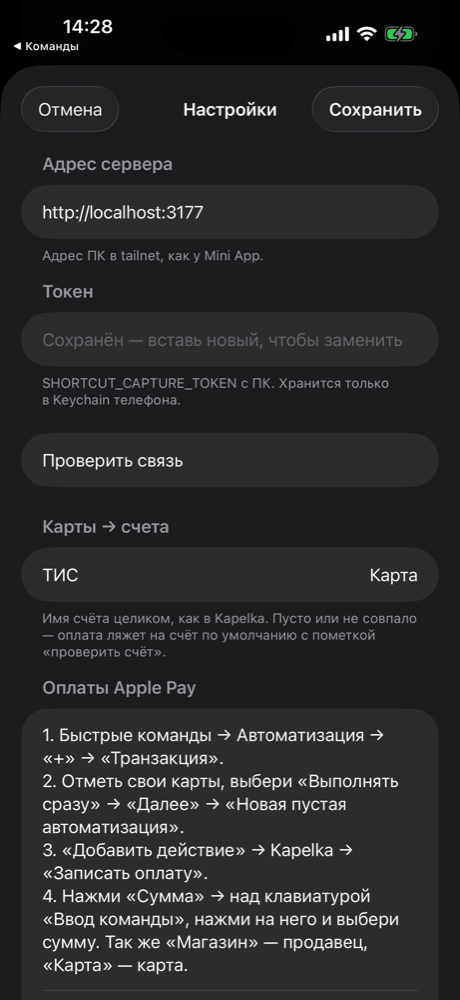
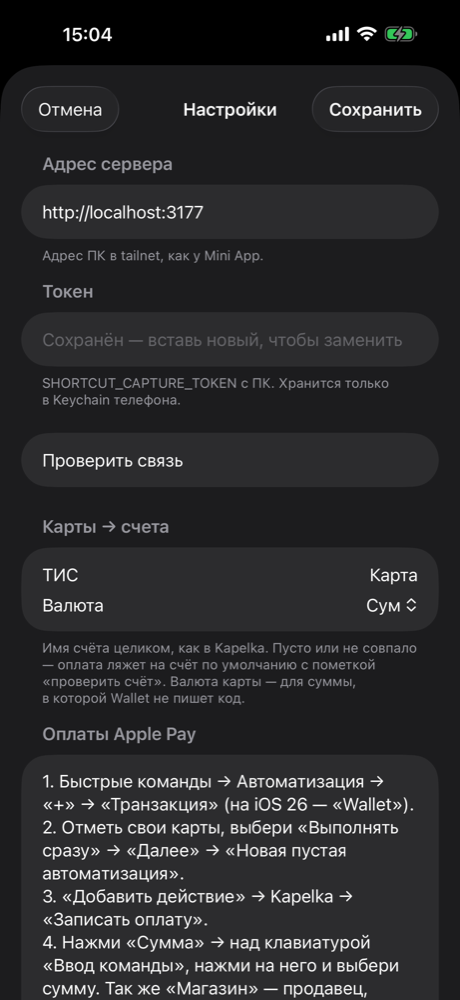
feat(ios): FT-179 check — a card's currency in the settings; no dangling separator
One automation serves both of Shukur's cards, so its «Валюта» cannot tell a dollar card from a сум one:
an amount without a code would have gone out as сум. Each card now has its currency in cards → accounts;
the order is the code in Wallet's amount, the card's currency, the automation's, else «Не отправлено».
A mapping from before has no currency and still reads. A payment row without an amount (run by Siri)
shows the merchant alone. Settings screenshots retaken with the iOS 26 «Wallet» name and the picker.

Changed region(s): [[0.0913, 0.589, 0.913, 1.0], [0.0304, 0.0, 0.2435, 0.062]]

diff --git a/ios/KapelkaTests/CardAccountTests.swift b/ios/KapelkaTests/CardAccountTests.swift
@@ -42,7 +42,7 @@ final class CardAccountTests {
     func mappedAccount() throws {
         let store = try makeStore()
         store.noticed("TBC Uzbekistan")
-        try store.save(["TBC Uzbekistan": "  Карта TBC "], removing: [])
+        try store.save([CardAccount(card: "TBC Uzbekistan", account: "  Карта TBC ")], removing: [])
 
         #expect(store.account(for: "TBC Uzbekistan") == "Карта TBC")
         #expect(store.account(for: "Visa Kapitalbank") == nil)
@@ -52,8 +52,8 @@ final class CardAccountTests {
     func clearedAccount() throws {
         let store = try makeStore()
         store.noticed("TBC Uzbekistan")
-        try store.save(["TBC Uzbekistan": "Карта"], removing: [])
-        try store.save(["TBC Uzbekistan": " "], removing: [])
+        try store.save([CardAccount(card: "TBC Uzbekistan", account: "Карта")], removing: [])
+        try store.save([CardAccount(card: "TBC Uzbekistan", account: " ")], removing: [])
 
         #expect(store.account(for: "TBC Uzbekistan") == nil)
         #expect(store.cards.map(\.card) == ["TBC Uzbekistan"])
@@ -65,10 +65,10 @@ final class CardAccountTests {
         store.noticed("TBC Uzbekistan")
 
         #expect(throws: CardAccountError.tooLong("TBC Uzbekistan")) {
-            try store.save(["TBC Uzbekistan": String(repeating: "к", count: 101)], removing: [])
+            try store.save([CardAccount(card: "TBC Uzbekistan", account: String(repeating: "к", count: 101))], removing: [])
         }
         #expect(store.account(for: "TBC Uzbekistan") == nil)
-        try store.save(["TBC Uzbekistan": String(repeating: "к", count: 100)], removing: [])
+        try store.save([CardAccount(card: "TBC Uzbekistan", account: String(repeating: "к", count: 100))], removing: [])
     }
 
     @Test("карта, пришедшая, пока открыты настройки, не теряется при сохранении")
@@ -78,7 +78,7 @@ final class CardAccountTests {
         let shown = store.cards
         store.noticed("Visa Kapitalbank")
 
-        try store.save(Dictionary(uniqueKeysWithValues: shown.map { ($0.card, "Карта") }), removing: [])
+        try store.save(shown.map { CardAccount(card: $0.card, account: "Карта") }, removing: [])
 
         #expect(store.cards.map(\.card) == ["TBC Uzbekistan", "Visa Kapitalbank"])
         #expect(store.account(for: "TBC Uzbekistan") == "Карта")
@@ -88,8 +88,8 @@ final class CardAccountTests {
     func removeCard() throws {
         let store = try makeStore()
         store.noticed("TBC Uzbekistan")
-        try store.save(["TBC Uzbekistan": "Карта"], removing: [])
-        try store.save([:], removing: ["TBC Uzbekistan"])
+        try store.save([CardAccount(card: "TBC Uzbekistan", account: "Карта")], removing: [])
+        try store.save([], removing: ["TBC Uzbekistan"])
         #expect(store.cards.isEmpty)
 
         store.noticed("TBC Uzbekistan")
@@ -100,9 +100,39 @@ final class CardAccountTests {
     func survivesNewInstance() throws {
         let store = try makeStore()
         store.noticed("TBC Uzbekistan")
-        try store.save(["TBC Uzbekistan": "Карта"], removing: [])
+        try store.save([CardAccount(card: "TBC Uzbekistan", account: "Карта")], removing: [])
 
         #expect(try makeStore().account(for: "TBC Uzbekistan") == "Карта")
+    }
+
+    @Test("валюта карты сохраняется вместе со счётом; не выбрана — её нет")
+    func cardCurrency() throws {
+        let store = try makeStore()
+        store.noticed("TBC Uzbekistan")
+        store.noticed("Visa Kapitalbank")
+        try store.save([
+            CardAccount(card: "TBC Uzbekistan", account: "Карта", currency: .uzs),
+            CardAccount(card: "Visa Kapitalbank", account: "", currency: .usd),
+        ], removing: [])
+
+        #expect(store.currency(for: "TBC Uzbekistan") == .uzs)
+        #expect(store.currency(for: "Visa Kapitalbank") == .usd)
+        #expect(try makeStore().currency(for: " Visa  Kapitalbank ") == .usd)
+
+        try store.save([CardAccount(card: "Visa Kapitalbank", account: "", currency: nil)], removing: [])
+        #expect(store.currency(for: "Visa Kapitalbank") == nil)
+        #expect(store.currency(for: "Другая карта") == nil)
+    }
+
+    @Test("сопоставление прошлой сборки, без валюты, читается: счёт на месте, валюты нет")
+    func olderMappingWithoutCurrency() throws {
+        let defaults = try #require(UserDefaults(suiteName: suite))
+        defaults.set(Data(#"[{"card":"TBC Uzbekistan","account":"Карта"}]"#.utf8), forKey: "cardAccounts")
+        let store = try makeStore()
+
+        #expect(store.cards == [CardAccount(card: "TBC Uzbekistan", account: "Карта")])
+        #expect(store.account(for: "TBC Uzbekistan") == "Карта")
+        #expect(store.currency(for: "TBC Uzbekistan") == nil)
     }
 
     @Test("нечитаемое сопоставление откладывается рядом, а не затирается следующей картой")
@@ -123,7 +153,7 @@ final class CardAccountTests {
     func cardNameTidied() throws {
         let store = try makeStore()
         store.noticed(" TBC  Uzbekistan ")
-        try store.save(["TBC Uzbekistan": "Карта"], removing: [])
+        try store.save([CardAccount(card: "TBC Uzbekistan", account: "Карта")], removing: [])
 
         #expect(store.cards.map(\.card) == ["TBC Uzbekistan"])
         #expect(store.account(for: "TBC Uzbekistan") == "Карта")

diff --git a/ios/Kapelka/Settings/CardAccountStore.swift b/ios/Kapelka/Settings/CardAccountStore.swift
@@ -1,11 +1,20 @@
 import Foundation
 
-/// One Wallet card and the Kapelka account its payments go to; an empty account — none.
+/// One Wallet card, the Kapelka account its payments go to (empty — none) and its currency, for a Wallet amount that
+/// names none: one automation serves several cards, so its own «Валюта» cannot tell a dollar card from a сум one.
 struct CardAccount: Codable, Equatable, Identifiable, Sendable {
     let card: String
     var account: String
+    /// A mapping saved before FT-179's review has none.
+    var currency: PaymentCurrency?
 
     var id: String { card }
+
+    init(card: String, account: String, currency: PaymentCurrency? = nil) {
+        self.card = card
+        self.account = account
+        self.currency = currency
+    }
 }
 
 enum CardAccountError: Error, Equatable {
@@ -54,23 +63,33 @@ final class CardAccountStore: @unchecked Sendable {
         return account?.isEmpty == false ? account : nil
     }
 
-    /// The settings' «Сохранить»: accounts of the cards shown, by card, and the cards swiped away. A card that came
-    /// while the settings were open keeps its place. Nothing is written when one name is too long.
-    func save(_ accounts: [String: String], removing removed: Set<String>) throws(CardAccountError) {
-        try Self.check(accounts)
-        let trimmed = accounts.mapValues { $0.trimmingCharacters(in: .whitespacesAndNewlines) }
+    /// The currency of this card's payments when Wallet's amount names none; `nil` — not chosen.
+    func currency(for card: String) -> PaymentCurrency? {
+        guard let card = Payment.tidy(card) else { return nil }
+        return cards.first { $0.card == card }?.currency
+    }
+
+    /// The settings' «Сохранить»: the cards shown, as edited, and the cards swiped away. A card that came while the
+    /// settings were open keeps its place. Nothing is written when one name is too long.
+    func save(_ edits: [CardAccount], removing removed: Set<String>) throws(CardAccountError) {
+        try Self.check(edits)
+        let edited = Dictionary(edits.map { ($0.card, $0) }) { _, last in last }
         lock.withLock {
             let cards = load()
                 .filter { !removed.contains($0.card) }
-                .map { CardAccount(card: $0.card, account: trimmed[$0.card] ?? $0.account) }
+                .map { stored -> CardAccount in
+                    guard let edit = edited[stored.card] else { return stored }
+                    let account = edit.account.trimmingCharacters(in: .whitespacesAndNewlines)
+                    return CardAccount(card: stored.card, account: account, currency: edit.currency)
+                }
             store(cards)
         }
     }
 
     /// Before anything of the settings is written: an account's name the server would refuse.
-    static func check(_ accounts: [String: String]) throws(CardAccountError) {
-        let long = accounts.first { $0.value.trimmingCharacters(in: .whitespacesAndNewlines).utf16.count > accountLimit }
-        if let long { throw .tooLong(long.key) }
+    static func check(_ edits: [CardAccount]) throws(CardAccountError) {
+        let long = edits.first { $0.account.trimmingCharacters(in: .whitespacesAndNewlines).utf16.count > accountLimit }
+        if let long { throw .tooLong(long.card) }
     }
 
     /// A mapping that does not decode is moved aside under its own key, not written over by the next card: it can

diff --git a/ios/KapelkaTests/PaymentRecorderTests.swift b/ios/KapelkaTests/PaymentRecorderTests.swift
@@ -117,6 +117,45 @@ final class PaymentRecorderTests {
         #expect(try harness.store.load().captures.map(\.state) == [.sent])
     }
 
+    @Test("сумма без кода: валюта карты из настроек важнее валюты автоматизации — $4.50 не ляжет как 4,50 сум")
+    func cardCurrencyBeforeAutomation() async throws {
+        let harness = try QueueHarness()
+        let (recorder, cards) = try makeRecorder(harness)
+        cards.noticed("Visa Kapitalbank")
+        try cards.save([CardAccount(card: "Visa Kapitalbank", account: "", currency: .usd)], removing: [])
+
+        _ = try await recorder.record(PaymentInput(amount: "4.50", currency: .uzs, merchant: "APPLE.COM/BILL", card: "Visa Kapitalbank"))
+
+        let body = try #require(try await harness.transport.paymentBodies().first)
+        #expect(body.amount == "4.50")
+        #expect(body.currency == "USD")
+    }
+
+    @Test("код в сумме важнее валюты карты")
+    func walletCodeBeforeCardCurrency() async throws {
+        let harness = try QueueHarness()
+        let (recorder, cards) = try makeRecorder(harness)
+        cards.noticed("TBC Uzbekistan")
+        try cards.save([CardAccount(card: "TBC Uzbekistan", account: "", currency: .usd)], removing: [])
+
+        _ = try await recorder.record(Self.mazzali)
+
+        #expect(try await harness.transport.paymentBodies().map(\.currency) == ["UZS"])
+    }
+
+    @Test("у карты нет валюты — валюта автоматизации; нет и её — не отправлено, причина про валюту карты")
+    func automationCurrencyThenNothing() async throws {
+        let harness = try QueueHarness()
+        let (recorder, _) = try makeRecorder(harness)
+
+        _ = try await recorder.record(PaymentInput(amount: "4.50", currency: .usd, merchant: "Shop", card: "Visa"))
+        let answer = try await recorder.record(PaymentInput(amount: "4.50", merchant: "Shop", card: "Visa"))
+
+        #expect(try await harness.transport.paymentBodies().map(\.currency) == ["USD"])
+        #expect(answer.contains("укажи валюту карты в настройках Kapelka"))
+        #expect(try harness.store.load().captures.map(\.state) == [.sent, .rejected])
+    }
+
     @Test("карта оплаты появляется в настройках без счёта")
     func cardNoticed() async throws {
         let harness = try QueueHarness()

diff --git a/ios/Kapelka/UI/SettingsView.swift b/ios/Kapelka/UI/SettingsView.swift
@@ -142,10 +142,17 @@ struct SettingsView: View {
                     .foregroundStyle(.secondary)
             }
             ForEach($cards) { $row in
-                LabeledContent(row.card) {
-                    TextField("Счёт", text: $row.account)
-                        .multilineTextAlignment(.trailing)
-                        .autocorrectionDisabled()
+                VStack(alignment: .leading, spacing: 8) {
+                    LabeledContent(row.card) {
+                        TextField("Счёт", text: $row.account)
+                            .multilineTextAlignment(.trailing)
+                            .autocorrectionDisabled()
+                    }
+                    Picker("Валюта", selection: $row.currency) {
+                        Text("Как в сумме").tag(PaymentCurrency?.none)
+                        Text("Сум").tag(PaymentCurrency?.some(.uzs))
+                        Text("Доллар").tag(PaymentCurrency?.some(.usd))
+                    }
                 }
             }
             .onDelete { offsets in
@@ -156,7 +163,7 @@ struct SettingsView: View {
             Text("Карты → счета")
         } footer: {
             Text("Имя счёта целиком, как в Kapelka. Пусто или не совпало — оплата ляжет на счёт по умолчанию "
-                + "с пометкой «проверить счёт».")
+                + "с пометкой «проверить счёт». Валюта карты — для суммы, в которой Wallet не пишет код.")
         }
     }
 

diff --git a/ios/Kapelka/App/AppModel.swift b/ios/Kapelka/App/AppModel.swift
@@ -104,16 +104,16 @@ final class AppModel {
         services.cards.cards
     }
 
-    /// Every field is checked before any is written. A payment waiting on the phone goes with the new account.
+    /// Every field is checked before any is written. A payment waiting on the phone goes with the new account; a card's
+    /// currency counts from the next payment, since a payment's amount is read when it lands in the queue.
     func saveSettings(
         address: String,
         token: String,
         cards: [CardAccount],
         removedCards: Set<String>
     ) async throws(SettingsError) {
-        let accounts = Dictionary(cards.map { ($0.card, $0.account) }) { _, last in last }
         do {
-            try CardAccountStore.check(accounts)
+            try CardAccountStore.check(cards)
         } catch {
             switch error {
             case let .tooLong(card): throw .accountTooLong(card: card)
@@ -121,7 +121,7 @@ final class AppModel {
         }
         try services.settings.save(address: address, token: token)
         // Checked above, so it does not throw here
-        try? services.cards.save(accounts, removing: removedCards)
+        try? services.cards.save(cards, removing: removedCards)
         isConfigured = services.settings.configuration() != nil
         await services.queue.settingsChanged()
         Task { await services.queue.flush() }

diff --git a/ios/Kapelka/Payments/Payment.swift b/ios/Kapelka/Payments/Payment.swift
@@ -4,7 +4,7 @@ import Foundation
 struct PaymentInput: Equatable, Sendable {
     /// Wallet's «Сумма»: «28 000,00 UZS».
     var amount: String?
-    /// The currency chosen in the automation, for an amount that names none.
+    /// For an amount that names none: the card's currency from the settings, else the one chosen in the automation.
     var currency: PaymentCurrency?
     var merchant: String?
     /// The card's name in Wallet.
@@ -72,7 +72,7 @@ extension WalletAmount.Problem {
         case .zero: "Wallet передал сумму 0 — запиши в Mini App"
         case .unreadable: "не понял сумму «\(wallet)» — запиши в Mini App"
         case .tooLarge: "больше 1 000 000 000 — сервер такую запись не берёт"
-        case .noCurrency: "в сумме нет валюты — выбери «Валюта» в автоматизации, а эту оплату запиши в Mini App"
+        case .noCurrency: "в сумме нет валюты — укажи валюту карты в настройках Kapelka, а эту оплату запиши в Mini App"
         case let .otherCurrency(code): "валюта \(code) — Kapelka пишет только сумы и доллары, запиши в Mini App"
         }
     }

diff --git a/ios/KapelkaTests/CaptureListTests.swift b/ios/KapelkaTests/CaptureListTests.swift
@@ -136,6 +136,29 @@ struct CaptureListTests {
         #expect(row.text == "Оплата Apple Pay · 28\u{00A0}000,00\u{00A0}UZS")
     }
 
+    @Test("оплата без суммы (команду запустили не из Wallet) — без висящей точки")
+    func paymentWithoutAmount() throws {
+        let input = PaymentInput(amount: nil, merchant: "Shop")
+        var bare = Capture(
+            clientId: UUID(),
+            text: "",
+            capturedAt: Self.inputTime,
+            timeZoneIdentifier: "Asia/Tashkent",
+            payment: Payment.from(input).payment
+        )
+        bare.state = .rejected
+        let empty = Capture(
+            clientId: UUID(),
+            text: "",
+            capturedAt: Self.inputTime,
+            timeZoneIdentifier: "Asia/Tashkent",
+            payment: Payment.from(PaymentInput()).payment
+        )
+
+        #expect(rows([bare]).first?.text == "Shop")
+        #expect(rows([empty]).first?.text == "Оплата Apple Pay")
+    }
+
     @Test("оплата записана — итог сервера, как у фразы")
     func savedPayment() throws {
         let reply = CaptureReply(status: "needs_review", title: "Нужно проверить", summary: "Ooo Mazzali Super Food · 28 000 сум · Кафе?")

diff --git a/ios/Kapelka/Payments/PaymentRecorder.swift b/ios/Kapelka/Payments/PaymentRecorder.swift
@@ -10,10 +10,13 @@ struct PaymentRecorder: Sendable {
     let send: @Sendable () async -> Void
     let isConfigured: @Sendable () -> Bool
 
-    /// Throws when the payment could not be written to the phone — the automation must fail loudly then.
+    /// An amount that names no currency takes the card's from the settings, then the automation's «Валюта». Throws
+    /// when the payment could not be written to the phone — the automation must fail loudly then.
     func record(_ input: PaymentInput) async throws -> String {
         cards.noticed(input.card)
-        let capture = try await queue.addPayment(input)
+        var payment = input
+        payment.currency = input.card.flatMap(cards.currency(for:)) ?? input.currency
+        let capture = try await queue.addPayment(payment)
         if capture.state == .pending {
             await send()
         }

diff --git a/ios/Kapelka/Intents/CaptureShortcuts.swift b/ios/Kapelka/Intents/CaptureShortcuts.swift
@@ -109,7 +109,10 @@ struct RecordPaymentIntent: AppIntent {
     @Parameter(title: "Карта", description: "«Ввод команды» → карта. Счёт для неё — в настройках Kapelka.")
     var card: String?
 
-    @Parameter(title: "Валюта", description: "Только если в сумме нет валюты.")
+    @Parameter(
+        title: "Валюта",
+        description: "Только если в сумме нет кода и все карты автоматизации в одной валюте. Иначе — валюта карты в настройках Kapelka."
+    )
     var currency: PaymentCurrency?
 
     static var parameterSummary: some ParameterSummary {

diff --git a/ios/Kapelka/UI/CaptureRow.swift b/ios/Kapelka/UI/CaptureRow.swift
@@ -80,9 +80,10 @@ struct CaptureRow: Identifiable, Equatable {
         )
     }
 
-    /// «Ooo Mazzali Super Food · 28 000,00 UZS».
+    /// «Ooo Mazzali Super Food · 28 000,00 UZS»; without an amount (run by Siri, not Wallet) only the merchant.
     private static func paymentLine(_ payment: Payment) -> String {
-        "\(payment.merchant ?? "Оплата Apple Pay") · \(payment.walletAmount)"
+        let amount = payment.walletAmount.trimmingCharacters(in: .whitespacesAndNewlines)
+        return [payment.merchant ?? "Оплата Apple Pay", amount.isEmpty ? nil : amount].compactMap { $0 }.joined(separator: " · ")
     }
 
     private static func kind(of capture: Capture) -> Kind {

diff --git a/ios/README.md b/ios/README.md
@@ -82,14 +82,16 @@
 - **Сумма — как в Wallet.** Карта TBC даёт «28 000,00 UZS» (неразрывные пробелы, запятая, код после числа, 2026-10-30).
   `WalletAmount` переписывает текст в строку контракта `"28000.00"` без `Double`: пробел, апостроф, точка или запятая
   между тройками цифр — разряды; последние точка или запятая с одной-двумя цифрами — копейки. Валюта — код, символ
-  или слово рядом с числом (`UZS`, `сум`, `$`, `USD`); без неё — «Валюта» из автоматизации.
+  или слово рядом с числом (`UZS`, `сум`, `$`, `USD`). Кода в сумме нет — валюта карты из настроек, потом «Валюта»
+  из автоматизации (она одна на все карты автоматизации); нет ни той, ни другой — «Не отправлено».
 - **Не отправляется**, но видна в списке как «Не отправлено» с причиной: другая валюта (EUR, RUB…), сумма 0 (Wallet
   иногда не передаёт сумму), формат, который не понят, нет валюты, больше 1 000 000 000. Такая оплата не ждёт: её
   записывают в Mini App.
-- **Карты → счета** — в настройках. Карта появляется сама после первой оплаты, имя счёта вводится руками — целиком,
-  как в Kapelka: сервер сравнивает его с именем счёта без регистра, «ё» и пробелов по краям. Счёт берётся при
-  отправке, так что сопоставление, сделанное пока оплата ждёт, тоже сработает. Пусто или не совпало — сервер кладёт
-  оплату на счёт по умолчанию с «проверить счёт» (`needs_review`).
+- **Карты → счета** — в настройках, с валютой карты. Карта появляется сама после первой оплаты, имя счёта вводится
+  руками — целиком, как в Kapelka: сервер сравнивает его с именем счёта без регистра, «ё» и пробелов по краям. Счёт
+  берётся при отправке, так что сопоставление, сделанное пока оплата ждёт, тоже сработает; валюта карты — когда оплата
+  ложится в очередь. Пусто или не совпало — сервер кладёт оплату на счёт по умолчанию с «проверить счёт»
+  (`needs_review`).
 - **В списке** у оплаты пометка «Apple Pay», пока ждёт — магазин и сумма как в Wallet, потом итог сервера.
 - **Дубли.** Своя быстрая команда, которая слала оплату фразой, должна быть выключена: иначе каждая оплата запишется
   дважды. Голосом оплату Apple Pay не повторять.
